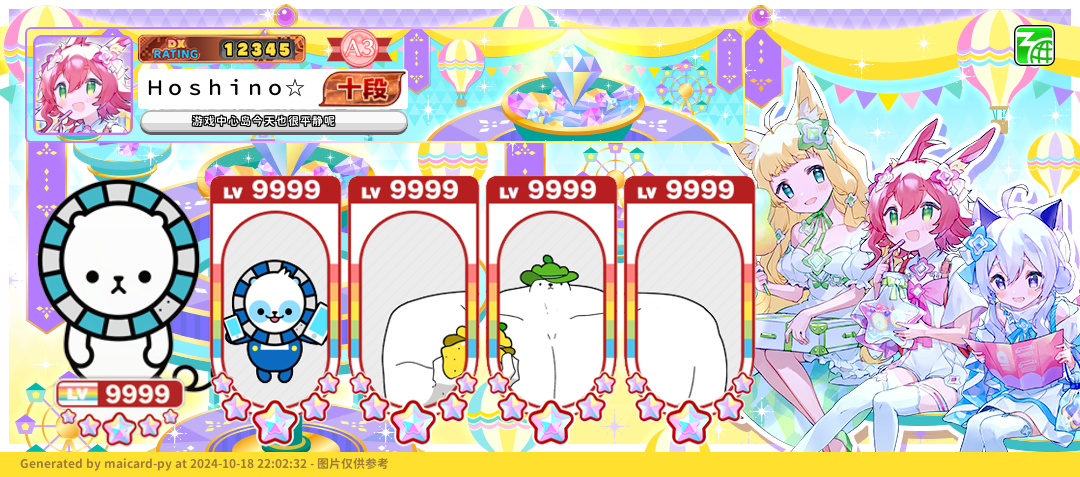
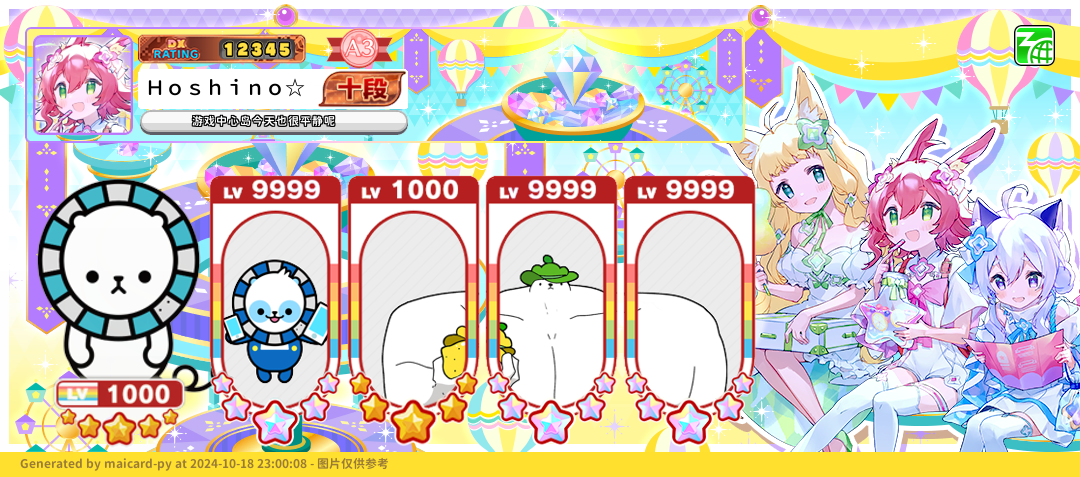
feat(generate_img): 添加五星角色图像处理并优化角色图标路径- 为五星角色添加专门的图像处理逻辑，区分五星和六星角色 - 修正角色图标文件路径的大小写错误 - 调整旅行伙伴默认等级设置，提高多样性

diff --git a/generate_img.py b/generate_img.py
@@ -213,6 +213,11 @@ def drawCharaImgNewSub(charaId, charaLevel):
     if star >= 6:
         main_star = Image.open(rf"{maimaiImgPath}/maicard/UI_CMN_Chara_star_big_MAX.png").convert("RGBA").resize((53, 50))
         sub_star = Image.open(rf"{maimaiImgPath}/maicard/UI_CMN_Chara_star_small_MAX.png").convert("RGBA").resize((35, 35))
+    elif star >= 5:
+        main_star = Image.open(rf"{maimaiImgPath}/maicard/UI_CMN_Chara_Star_big.png").convert("RGBA").resize(
+            (53, 50))
+        sub_star = Image.open(rf"{maimaiImgPath}/maicard/UI_CMN_Chara_Star_Small.png").convert("RGBA").resize(
+            (35, 35))
     else:
         main_star = Image.open(rf"{maimaiImgPath}/maicard/UI_CMN_Chara_Star_Big_Gauge01_{progress}.png").convert("RGBA").resize((53, 50))
         sub_star = Image.open(rf"{maimaiImgPath}/maicard/UI_CMN_Chara_Star_Small.png").convert("RGBA").resize((35, 35))
@@ -257,6 +262,9 @@ def drawCharaImgNewMain(charaId, charaLevel):
     if star >= 6:
         main_star = Image.open(rf"{maimaiImgPath}/maicard/UI_CMN_Chara_star_big_MAX.png").convert("RGBA").resize((65, 61))
         sub_star = Image.open(rf"{maimaiImgPath}/maicard/UI_CMN_Chara_star_small_MAX.png").convert("RGBA").resize((45, 45))
+    elif star >= 5:
+        main_star = Image.open(rf"{maimaiImgPath}/maicard/UI_CMN_Chara_Star_big.png").convert("RGBA").resize((65, 61))
+        sub_star = Image.open(rf"{maimaiImgPath}/maicard/UI_CMN_Chara_Star_Small.png").convert("RGBA").resize((45, 45))
     else:
         main_star = Image.open(rf"{maimaiImgPath}/maicard/UI_CMN_Chara_Star_Big_Gauge01_{progress}.png").convert("RGBA").resize((65, 61))
         sub_star = Image.open(rf"{maimaiImgPath}/maicard/UI_CMN_Chara_Star_Small.png").convert("RGBA").resize((45, 45))
@@ -383,7 +391,7 @@ def call_user_img_preview(user_data):
     draw = ImageDraw.Draw(base_img)
     draw.text((268,101), f"{user_data['nickname']}", font=ImageFont.truetype(rf'{materialPath}/GenSenMaruGothicTW-Medium.ttf', 20), fill="black")
 
-    icon = rf"{maimaiImgPath}/icon/UI_Icon_{user_data['icon']:06d}.png"
+    icon = rf"{maimaiImgPath}/Icon/UI_Icon_{user_data['icon']:06d}.png"
     iconImg = Image.open(icon).resize((156, 156))
     base_img.paste(iconImg, (68, 114), iconImg)
 
@@ -432,7 +440,7 @@ def main():
     parser.add_argument("--courseRank", type=int, default=10, help="玩家段位认定等级")
     parser.add_argument("--titleRare", type=str, default="Normal", help="玩家称号稀有度")
     parser.add_argument("--chara", nargs='+', type=int, default=[101, 104, 355610, 355611, 355612], help="玩家设置的旅行伙伴ID列表")
-    parser.add_argument("--charaLevel", nargs='+', type=int, default=[9999, 9999, 9999, 9999, 9999], help="玩家设置的旅行伙伴等级列表")
+    parser.add_argument("--charaLevel", nargs='+', type=int, default=[1000, 9999, 1000, 9999, 9999], help="玩家设置的旅行伙伴等级列表")
     parser.add_argument("--output", type=str, default="./output.png", help="图片输出路径")
 
     args = parser.parse_args()
